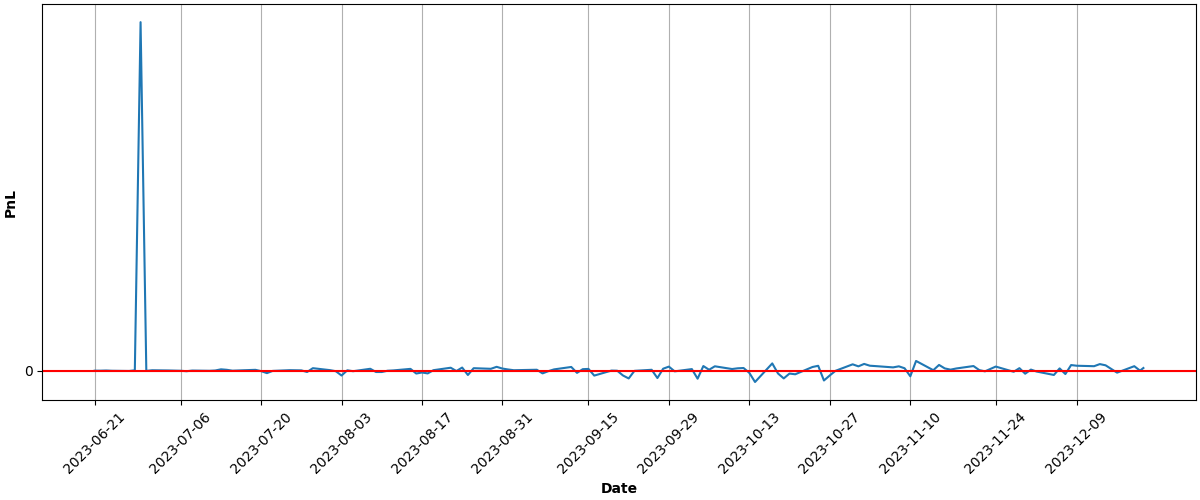
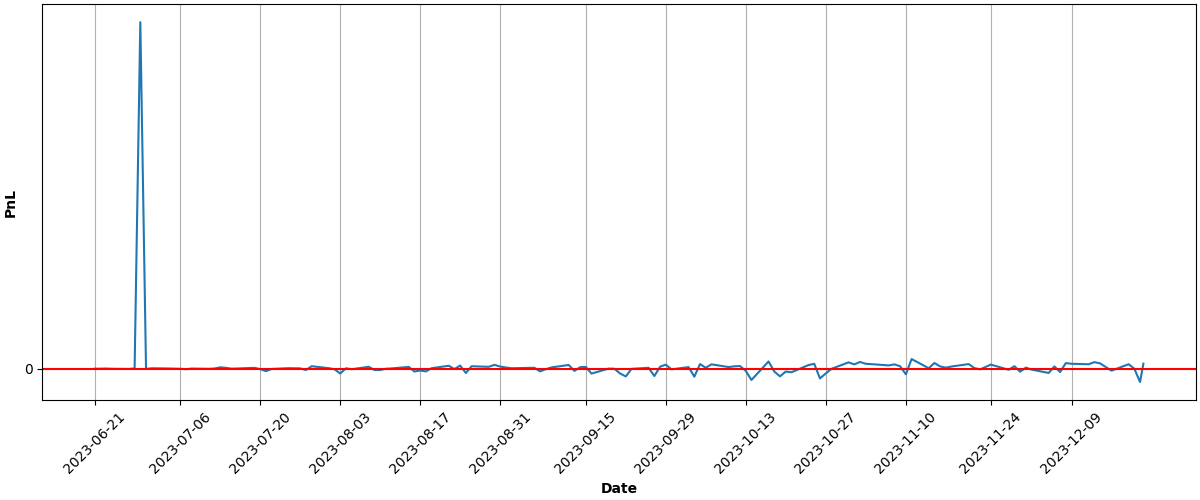
Automated Buy At Thu Dec 21 15:04:19 UTC 2023 Run ID 7289805213

diff --git a/README.md b/README.md
@@ -68,9 +68,9 @@ Results
 
 | Asset | Average Price | Current Price | ROI | 📈 |
 | --- | --- | --- | --- | --- |
-| FNGU | $177.202294529 | $243.21 | 37.25% | &#128994;&#128515; |
-| SVIX | $29.335762264 | $36.2303 | 23.50% | &#128994;&#128515; |
-| **Total** |  |  | **29.81%** | &#128994;&#128518; |
+| FNGU | $177.527032747 | $234.12 | 31.88% | &#128994;&#128515; |
+| SVIX | $29.432318518 | $34.53 | 17.32% | &#128994;&#128515; |
+| **Total** |  |  | **23.95%** | &#128994;&#128518; |
 
 ### PnL over time (calculations may not be accurate):
 
@@ -81,6 +81,6 @@ Results
 ---
 
 
-Updated at 2023-12-20 15:04:42
+Updated at 2023-12-21 15:04:38
 
 
